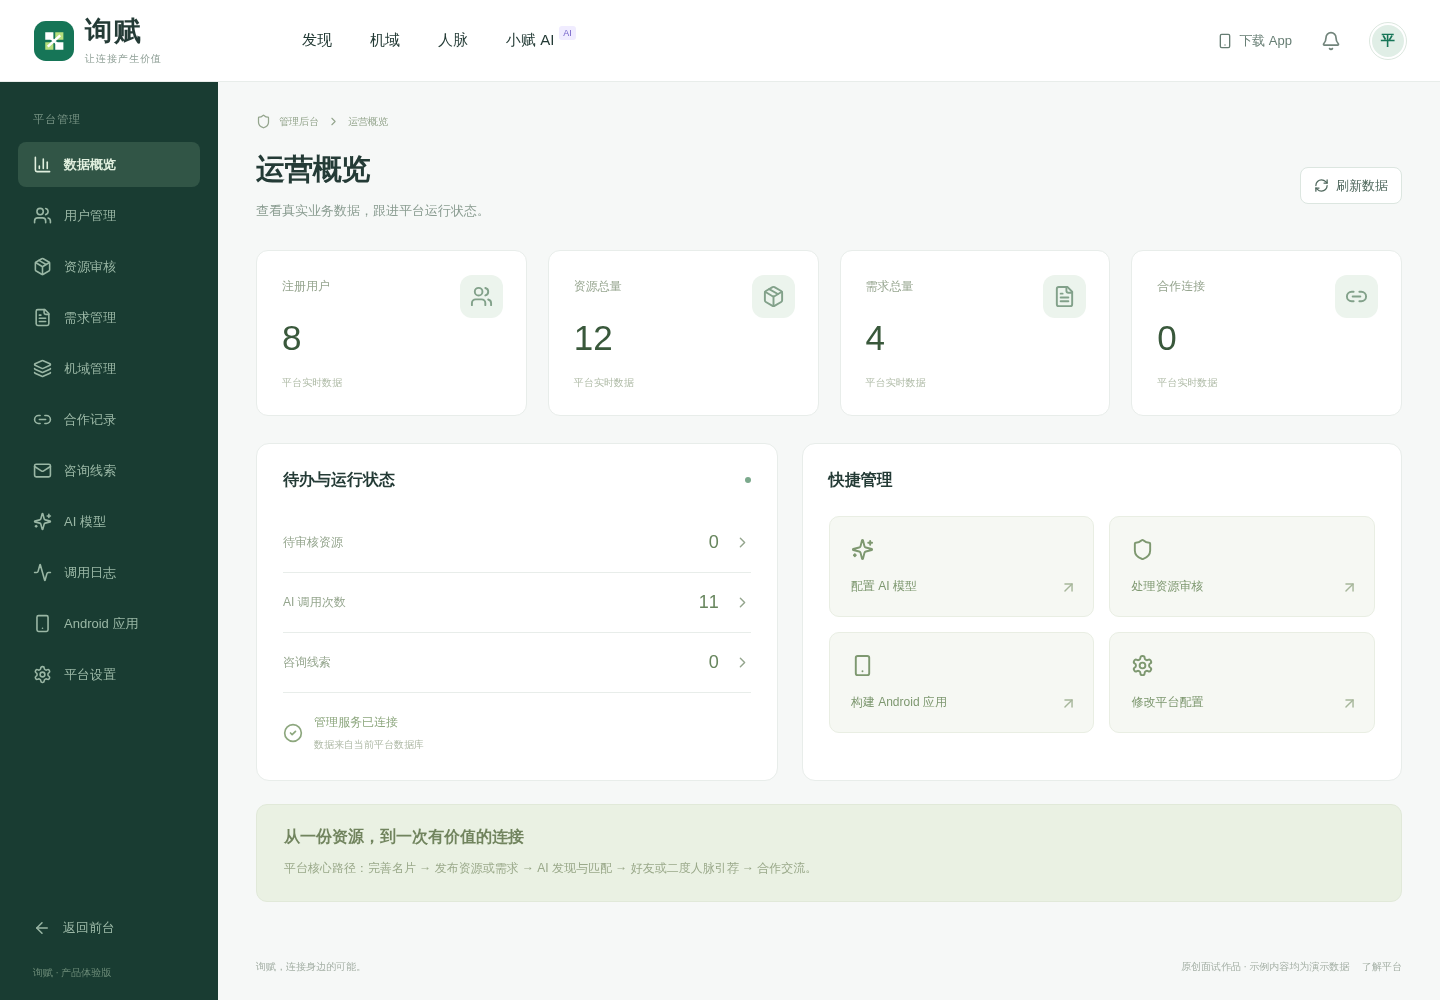
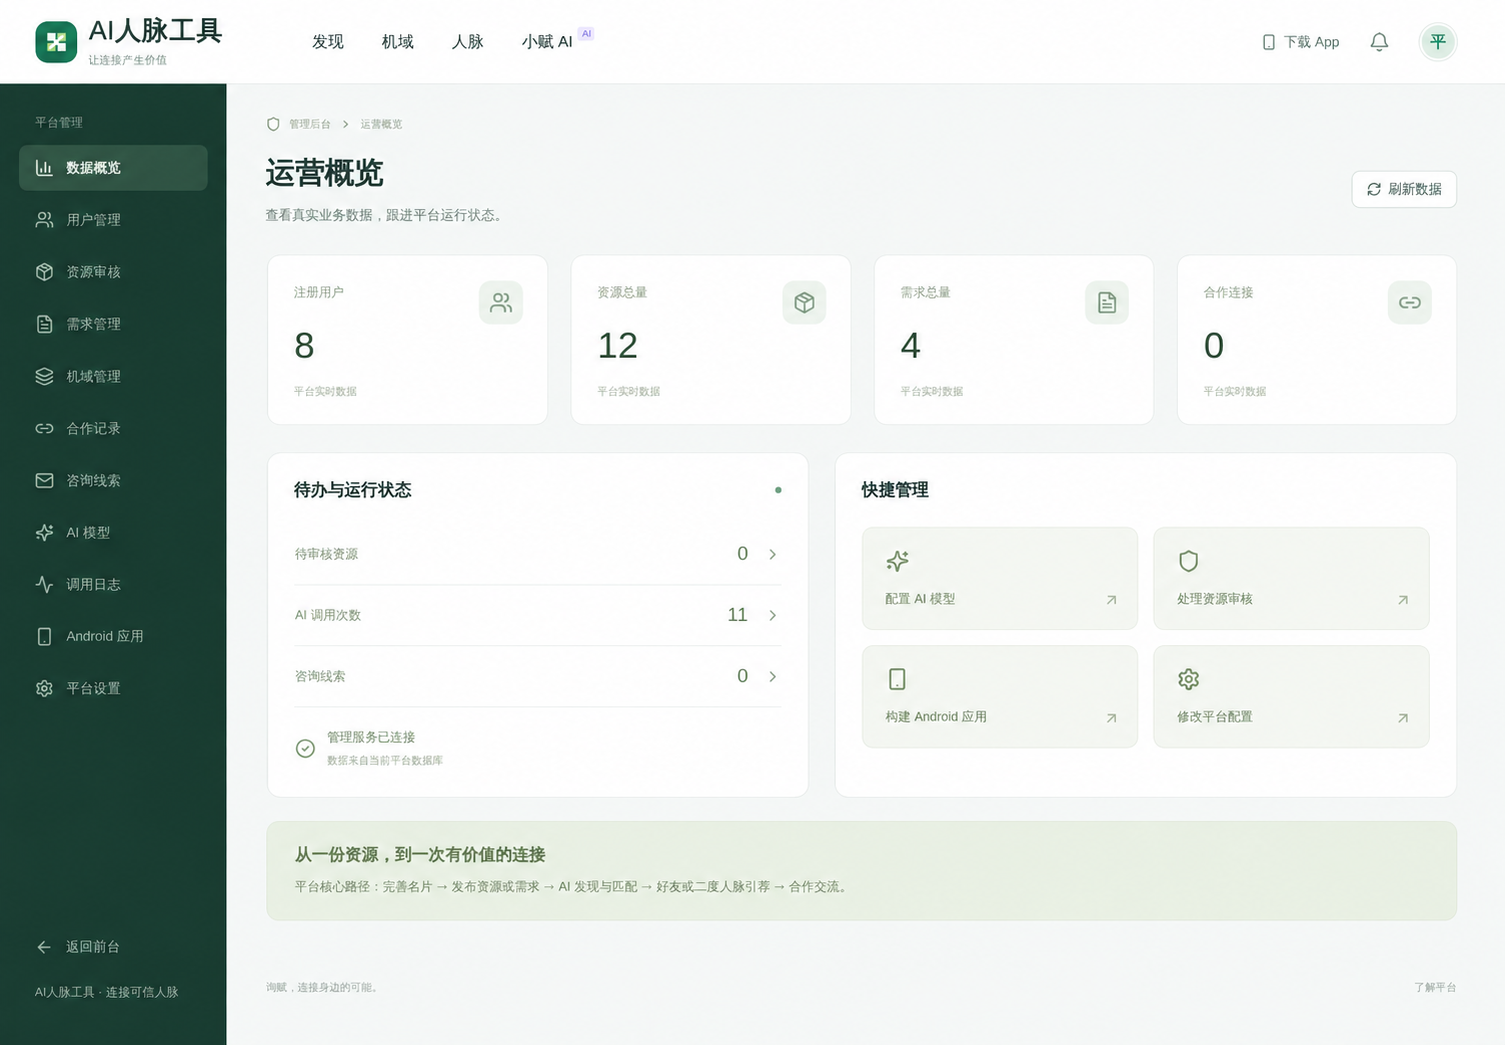
chore: initial private repository import

diff --git a/components/xunfu-app.js b/components/xunfu-app.js
@@ -317,7 +317,7 @@ export default function XunfuApp() {
         <Link href="/" className="brand">
           <img src="/icon.svg" alt="" />
           <span>
-            {config.siteName || "询赋"}
+            {config.siteName || "AI人脉工具"}
             <small>让连接产生价值</small>
           </span>
         </Link>
@@ -466,7 +466,7 @@ export default function XunfuApp() {
               </div>
               <Link className="side-item muted" href="/about">
                 <HelpCircle size={18} />
-                关于询赋
+                关于AI人脉工具
               </Link>
               {user?.role === "admin" && (
                 <Link className="side-item muted" href="/admin">
@@ -476,7 +476,7 @@ export default function XunfuApp() {
               )}
             </>
           )}
-          <div className="sidebar-foot">询赋 · 产品体验版</div>
+          <div className="sidebar-foot">AI人脉工具 · 连接可信人脉</div>
         </aside>
         <main className="main-content">
           {!admin && config.announcement && (
@@ -522,9 +522,9 @@ export default function XunfuApp() {
             <Empty title="页面未找到" />
           )}
           <footer className="page-footer">
-            <span>询赋，连接身边的可能。</span>
+            <span>AI人脉工具，连接身边的可能。</span>
             <span>
-              原创面试作品 · 示例内容均为演示数据{" "}
+              AI 人脉与资源协作平台{" "}
               <Link href="/about">了解平台</Link>
             </span>
           </footer>
@@ -610,7 +610,7 @@ function AuthModal({ mode, setMode, onClose, onSuccess }) {
   };
   return (
     <Modal
-      title={mode === "login" ? "欢迎回到询赋" : "开启你的价值连接"}
+      title={mode === "login" ? "欢迎回到AI人脉工具" : "开启你的价值连接"}
       onClose={onClose}
     >
       <p className="modal-intro">连接真实的人，让身边的资源流动起来。</p>
@@ -749,8 +749,8 @@ function ResourceCard({ r, requireUser, notify, reload }) {
           <span className="avatar tiny">
             {(r.ownerName || r.owner_name || "询").slice(0, 1)}
           </span>
-          <span>{r.ownerName || r.owner_name || "询赋成员"}</span>
-          <small>{r.demo ? "演示资源" : "成员发布"}</small>
+          <span>{r.ownerName || r.owner_name || "AI人脉工具成员"}</span>
+          <small>成员发布</small>
           <ArrowUpRight size={16} />
         </div>
       </div>
@@ -1184,8 +1184,7 @@ function Demands(ctx) {
                 <p>{d.description}</p>
                 <div className="demand-bottom">
                   <span>
-                    {d.ownerName || d.owner_name || "询赋成员"}
-                    {d.demo ? " · 演示内容" : ""}
+                    {d.ownerName || d.owner_name || "AI人脉工具成员"}
                   </span>
                   <span>
                     {Number(d.budget) > 0
@@ -1293,7 +1292,7 @@ function ResourceDetail(ctx) {
             <span className="avatar large">
               {(r.ownerName || r.owner_name || "询").slice(0, 1)}
             </span>
-            <h3>{r.ownerName || r.owner_name || "询赋成员"}</h3>
+            <h3>{r.ownerName || r.owner_name || "AI人脉工具成员"}</h3>
             <p>资源发布者</p>
             <div className="detail-price">
               {Number(r.price) > 0 ? (
@@ -2818,7 +2817,7 @@ function DownloadPage(ctx) {
       <div className="download-copy">
         <div className="hero-kicker">
           <Smartphone size={17} />
-          询赋 Android 客户端
+          AI人脉工具 Android 客户端
         </div>
         <h1>
           身边的机会，
@@ -2871,7 +2870,7 @@ function DownloadPage(ctx) {
         </div>
         <div className="phone-brand">
           <img src="/icon.svg" alt="" />
-          询赋 <Sparkles size={17} />
+          AI人脉工具 <Sparkles size={17} />
         </div>
         <div className="phone-hero">
           <h2>
@@ -2934,7 +2933,7 @@ function About(ctx) {
           都有再次发光的可能。
         </h1>
         <p>
-          询赋将 AI 与熟人连接结合，让技能、空间、物品与人脉
+          AI人脉工具将 AI 与熟人连接结合，让技能、空间、物品与人脉
           <br />
           在真实的需求中创造新的价值。
         </p>
@@ -2968,10 +2967,10 @@ function About(ctx) {
         <section className="panel">
           <h2>关于这个作品</h2>
           <p>
-            这是基于询赋官网公开产品介绍设计的原创面试作品，用于展示产品规划、交互设计与工程实现能力。
+            AI人脉工具是一套面向商务协作与熟人资源连接的独立产品，帮助用户更高效地整理资源、发现需求并建立可信连接。
           </p>
           <p>
-            平台中的示例名片、资源与需求均为演示数据，不代表真实商业承诺。平台提供资源信息和合作连接，合作条件由双方进一步确认。
+            平台提供资源信息与合作连接服务，具体合作内容、交付方式和合作条件由双方进一步确认。
           </p>
           <div className="faq-list">
             <h3>常见问题</h3>
@@ -3847,7 +3846,7 @@ function AdminApk(ctx) {
                 <input
                   name="appName"
                   required
-                  defaultValue={config.appName || "询赋"}
+                  defaultValue={config.appName || "AI人脉工具"}
                 />
               </Field>
               <Field label="网站地址">
@@ -3970,7 +3969,7 @@ function AdminApk(ctx) {
                 <tr key={b.id}>
                   <td>
                     <b>
-                      {b.appName || "询赋"} {b.versionName}
+                      {b.appName || "AI人脉工具"} {b.versionName}
                     </b>
                     <small>{b.fileName}</small>
                   </td>
@@ -4044,7 +4043,7 @@ function AdminSettings(ctx) {
     >
       <h3>平台信息与运营配置</h3>
       <Field label="平台名称">
-        <input name="siteName" defaultValue={settings.siteName || "询赋"} />
+        <input name="siteName" defaultValue={settings.siteName || "AI人脉工具"} />
       </Field>
       <Field label="平台介绍">
         <textarea
@@ -4108,7 +4107,7 @@ function InvitePage(ctx) {
       </div>
       <h2>把好连接，分享给你的朋友。</h2>
       <p>
-        邀请朋友加入询赋，完善名片后，通过注册邮箱添加好友。
+        邀请朋友加入AI人脉工具，完善名片后，通过注册邮箱添加好友。
         <br />
         这个链接用于邀请访问，不包含奖励或收益归因。
       </p>

diff --git a/app/api/[...path]/route.js b/app/api/[...path]/route.js
@@ -54,7 +54,7 @@ async function handler(req, context) {
       if(!/^[^\s@]+@[^\s@]+\.[^\s@]+$/.test(email))fail('请输入有效邮箱');if(password.length<8)fail('密码至少需要 8 位');
       if((await query('SELECT id FROM users WHERE email=?',[email])).length)fail('该邮箱已被注册',409);
       const insert=await query('INSERT INTO users(name,email,password_hash,bio,skills) VALUES(?,?,?,?,?)',[name,email,await bcrypt.hash(password,12),'','[]']);
-      const u=record((await query('SELECT * FROM users WHERE id=?',[insert.insertId]))[0]);await notify(u.id,'欢迎来到询赋','完善名片、发布资源或告诉小赋你的需求，开始连接有价值的人脉。');
+      const u=record((await query('SELECT * FROM users WHERE id=?',[insert.insertId]))[0]);await notify(u.id,'欢迎来到AI人脉工具','完善名片、发布资源或告诉小赋你的需求，开始连接有价值的人脉。');
       const response=result({user:u},201);response.cookies.set('xunfu_session',await token(u),{httpOnly:true,sameSite:'lax',secure:url.protocol==='https:',path:'/',maxAge:7*86400});return response;
     }
     if(route==='auth/logout'&&method==='POST'){const response=result({ok:true});response.cookies.set('xunfu_session','',{httpOnly:true,sameSite:'lax',path:'/',maxAge:0});return response;}

diff --git a/app/layout.js b/app/layout.js
@@ -1,9 +1,9 @@
 import "./globals.css";
 export const metadata = {
-  title: "询赋 · 让连接发生，让价值流动",
+  title: "AI人脉工具 · 让连接发生，让价值流动",
   description:
-    "发现身边的闲置资源，连接值得信任的人。询赋 AI 熟人资源协作平台。",
-  applicationName: "询赋",
+    "发现身边的闲置资源，连接值得信任的人。AI人脉工具 AI 熟人资源协作平台。",
+  applicationName: "AI人脉工具",
   manifest: "/manifest.webmanifest",
 };
 export const viewport = {

diff --git a/android/src/com/xunfu/app/MainActivity.java b/android/src/com/xunfu/app/MainActivity.java
@@ -104,7 +104,7 @@ public final class MainActivity extends Activity {
                     String fileName = URLUtil.guessFileName(url, disposition, mimeType);
                     DownloadManager.Request request = new DownloadManager.Request(Uri.parse(url));
                     request.setTitle(fileName);
-                    request.setDescription("询赋文件下载");
+                    request.setDescription("AI人脉工具文件下载");
                     if (mimeType != null) request.setMimeType(mimeType);
                     request.addRequestHeader("User-Agent", userAgent);
                     if (isSameOrigin(Uri.parse(url))) {

diff --git a/docs/backend-report.md b/docs/backend-report.md
@@ -1,4 +1,4 @@
-# 询赋演示平台后端交付说明
+# AI人脉工具后端交付说明
 
 验证日期：2026-10-14（Asia/Shanghai）
 
@@ -28,12 +28,12 @@
 
 - HTTP 集成验证：65 项通过；记录 `data/api-test-results.json`。覆盖登录、注册、审核、收藏、撮合、消息、联系人、隐私、权限、CSRF、模型 CRUD、AI 会话隔离、APK 构建和下载及账号停用。
 - 测试产生的临时用户、资源、需求及关系已清理；AI 调用审计日志保留。
-- AI 验证记录：`data/ai-test-results.json`。所有结果来自指定真实上游，无模拟回答。
+- AI 验证使用部署环境中的私有配置执行，具体模型标识和结果文件不纳入公开仓库。
 
 | 类型 | 模型/动作 | 结果 | 耗时 ms |
 |---|---|---|---|
-| connection | gpt-5.6-luna | 成功 | 1002 |
-| connection | claude-opus-5-thinking | 成功 | 4284 |
+| connection | 默认模型 | 成功 | 1002 |
+| connection | 备用模型 | 成功 | 4284 |
 | feature | chat | 成功 | 10570 |
 | feature | publish | 成功 | 9475 |
 | feature | recommend | 成功 | 3666 |
@@ -41,7 +41,7 @@
 | feature | demand | 成功 | 7866 |
 | feature | people | 成功 | 3325 |
 
-智能找人实测能够识别宋予安为二度好友，并指出需要通过真实中间人陆景行申请引荐。默认模型为 gpt-5.6-luna。
+智能找人实测能够识别二度好友，并指出需要通过共同联系人申请引荐。具体模型标识由部署环境配置，不写入公开仓库。
 
 ## 运行检查
 

diff --git a/README.md b/README.md
@@ -1,6 +1,6 @@
-# 询赋 · AI 熟人资源协作平台
+# AI人脉工具 · AI 熟人资源协作平台
 
-询赋是一套面向商务协作和人脉连接场景的数字名片平台，通过资源发布、需求大厅、好友关系、二度人脉引荐、合作跟进和 AI 助手，帮助用户更高效地发现和连接可合作资源。
+AI人脉工具是一套面向商务协作和人脉连接场景的数字名片平台，通过资源发布、需求大厅、好友关系、二度人脉引荐、合作跟进和 AI 助手，帮助用户更高效地发现和连接可合作资源。
 
 ## 核心能力
 
@@ -12,11 +12,11 @@
 
 ## 产品界面
 
-![询赋资源发现首页](docs/screenshots/desktop-home.png)
+![AI人脉工具资源发现首页](docs/screenshots/desktop-home.png)
 
-![询赋 AI 资源助手](docs/screenshots/desktop-ai.png)
+![AI人脉工具 AI 资源助手](docs/screenshots/desktop-ai.png)
 
-![询赋运营管理后台](docs/screenshots/desktop-admin.png)
+![AI人脉工具运营管理后台](docs/screenshots/desktop-admin.png)
 
 ## 技术架构
 

diff --git a/docs/design-direction.md b/docs/design-direction.md
@@ -1,6 +1,6 @@
-# 询赋 UI 设计
+# AI人脉工具 UI 设计
 方向：熟人网络中的资源发现。像一个可以邀请同行坐下聊聊的数字空间；清晰、通透、有温度。以资源摄影和关系线条为主视觉，不用抽象科技光球。
-色板：纸白 #ffffff、雾灰 #f5f7f8、深松 #173c35、询赋绿 #167557、薄荷 #e2f2e9、AI 紫 #7361c9。
+色板：纸白 #ffffff、雾灰 #f5f7f8、深松 #173c35、品牌绿 #167557、薄荷 #e2f2e9、AI 紫 #7361c9。
 字体：中文系统 PingFang SC / Microsoft YaHei，拉丁 Arial。正文14–16px，标题32–58px，数字28px。
 首页：顶栏 + 左导航；内容顶部左侧文案和右侧资源照片拼贴；下方搜索和分类，再是有信息密度的资源网格、右侧轻量关系推荐。移动端单列与固定底部5项菜单。
 用户中心：一屏展示名片、人脉、资源、需求、匹配、收藏、消息、AI记录、通知与账户；业务入口不得藏在说明文本中。

diff --git a/docs/android-report.md b/docs/android-report.md
@@ -11,7 +11,7 @@
 - 下载目录：`public/downloads/`；签名及记录目录：`data/android/`。
 - 公开下载入口：`GET /api/apk/download`（最新版），或指定 `?file=构建记录中的文件名`。
 
-初始应用名称为「询赋」，版本 `1.0.0`（versionCode `1`），包名固定 `com.xunfu.app`，站点地址 `http://154.40.47.111:3050`。最低 Android 6.0 / API 23，target SDK 35。APK 是真实签名的 WebView 客户端，网页功能由线上 React 应用提供，APK 不内置服务端。
+初始应用名称为「AI人脉工具」，版本 `1.0.0`（versionCode `1`），包名固定 `com.xunfu.app`，站点地址 `http://154.40.47.111:3050`。最低 Android 6.0 / API 23，target SDK 35。APK 是真实签名的 WebView 客户端，网页功能由线上 React 应用提供，APK 不内置服务端。
 
 ## 已验证结果
 

diff --git a/project-docs/timeline.md b/project-docs/timeline.md
@@ -2,3 +2,4 @@
 
 - 2026-11-03：重写 GitHub 产品介绍，仅展示电脑端界面；补齐部署、结构与联系方式；清理草稿文件。
 - 2026-11-03：移除 Git 跟踪的 AI 凭据原文，转存本机私有目录并加入忽略规则；准备重写远端历史。
+- 2026-11-03：产品品牌统一为“AI人脉工具”，同步更新界面、文档、Android 展示名称、PC 截图与 GitHub 仓库信息；内部兼容标识保持不变。

diff --git a/project-docs/overview.md b/project-docs/overview.md
@@ -1,3 +1,3 @@
 # 项目概述
 
-询赋是面向商务协作与熟人资源连接的 AI 数字名片平台，目标是让资源、需求、人脉和合作过程可发现、可跟进、可管理。
+AI人脉工具是面向商务协作与熟人资源连接的 AI 数字名片平台，目标是让资源、需求、人脉和合作过程可发现、可跟进、可管理。

diff --git a/project-docs/网站操作日志记录.md b/project-docs/网站操作日志记录.md
@@ -1,3 +1,4 @@
 # 网站操作日志记录
 
 - 2026-11-03：完成仓库结构与 README 检查，电脑端截图引用有效，移动端图片不再出现在 GitHub 介绍页。
+- 2026-11-03：检查 GitHub 产品介绍与电脑端截图，统一品牌名称为“AI人脉工具”，等待构建和远端发布验证。

diff --git a/android/README.md b/android/README.md
@@ -1,4 +1,4 @@
-# 询赋 Android
+# AI人脉工具 Android
 
 轻量 Android WebView 客户端，原生 Java + Android SDK 构建，不需要 Gradle 或远程 Maven 依赖。
 
